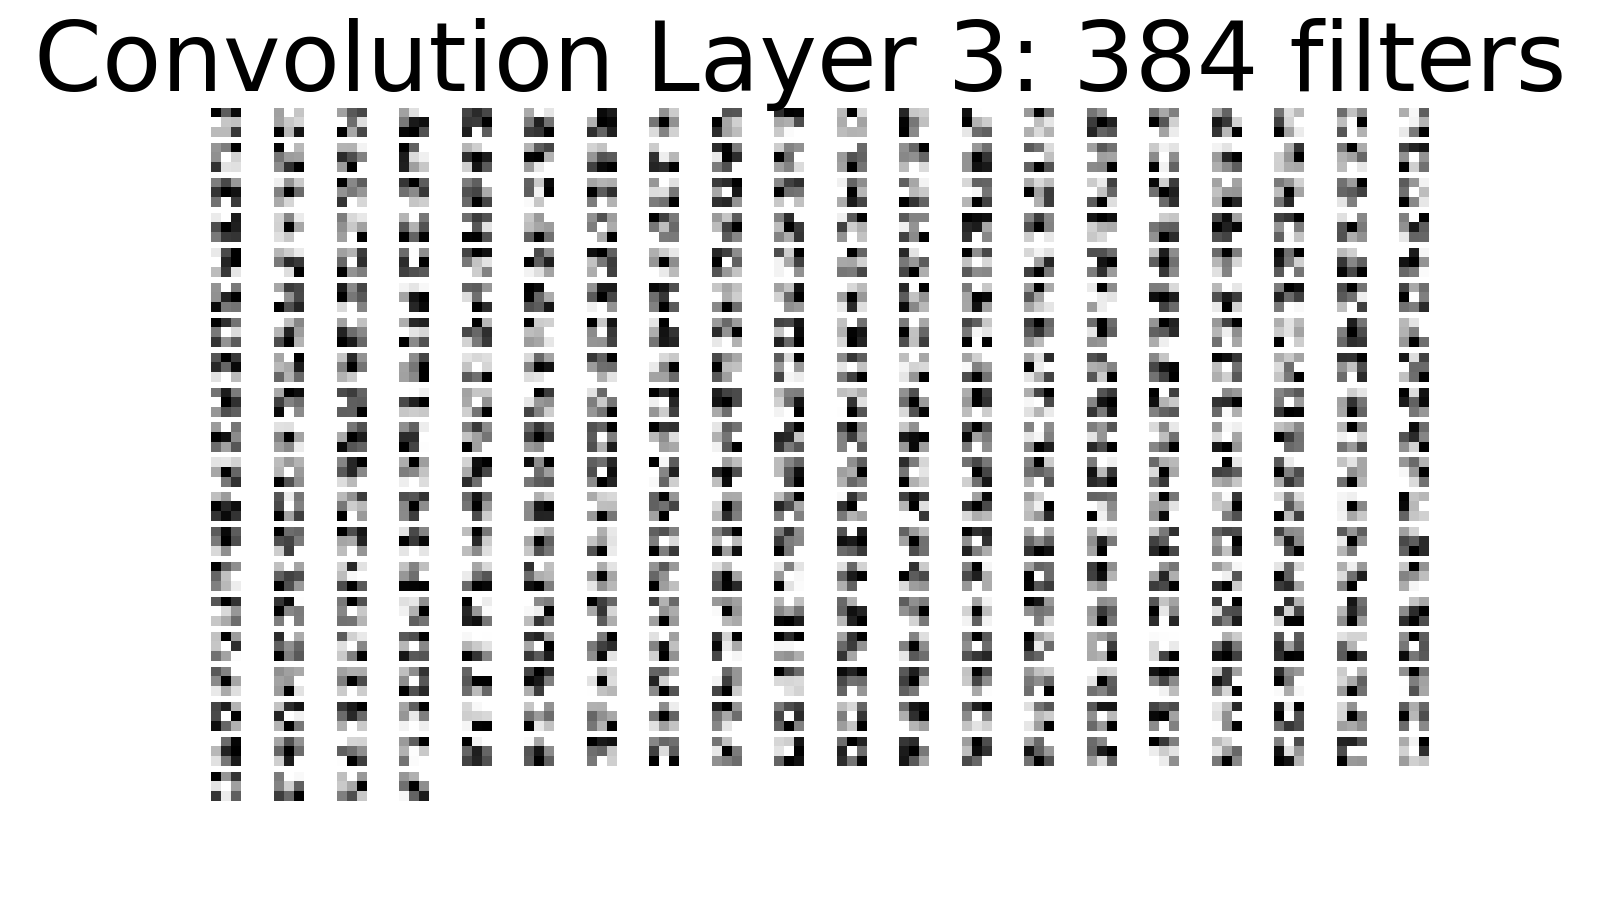
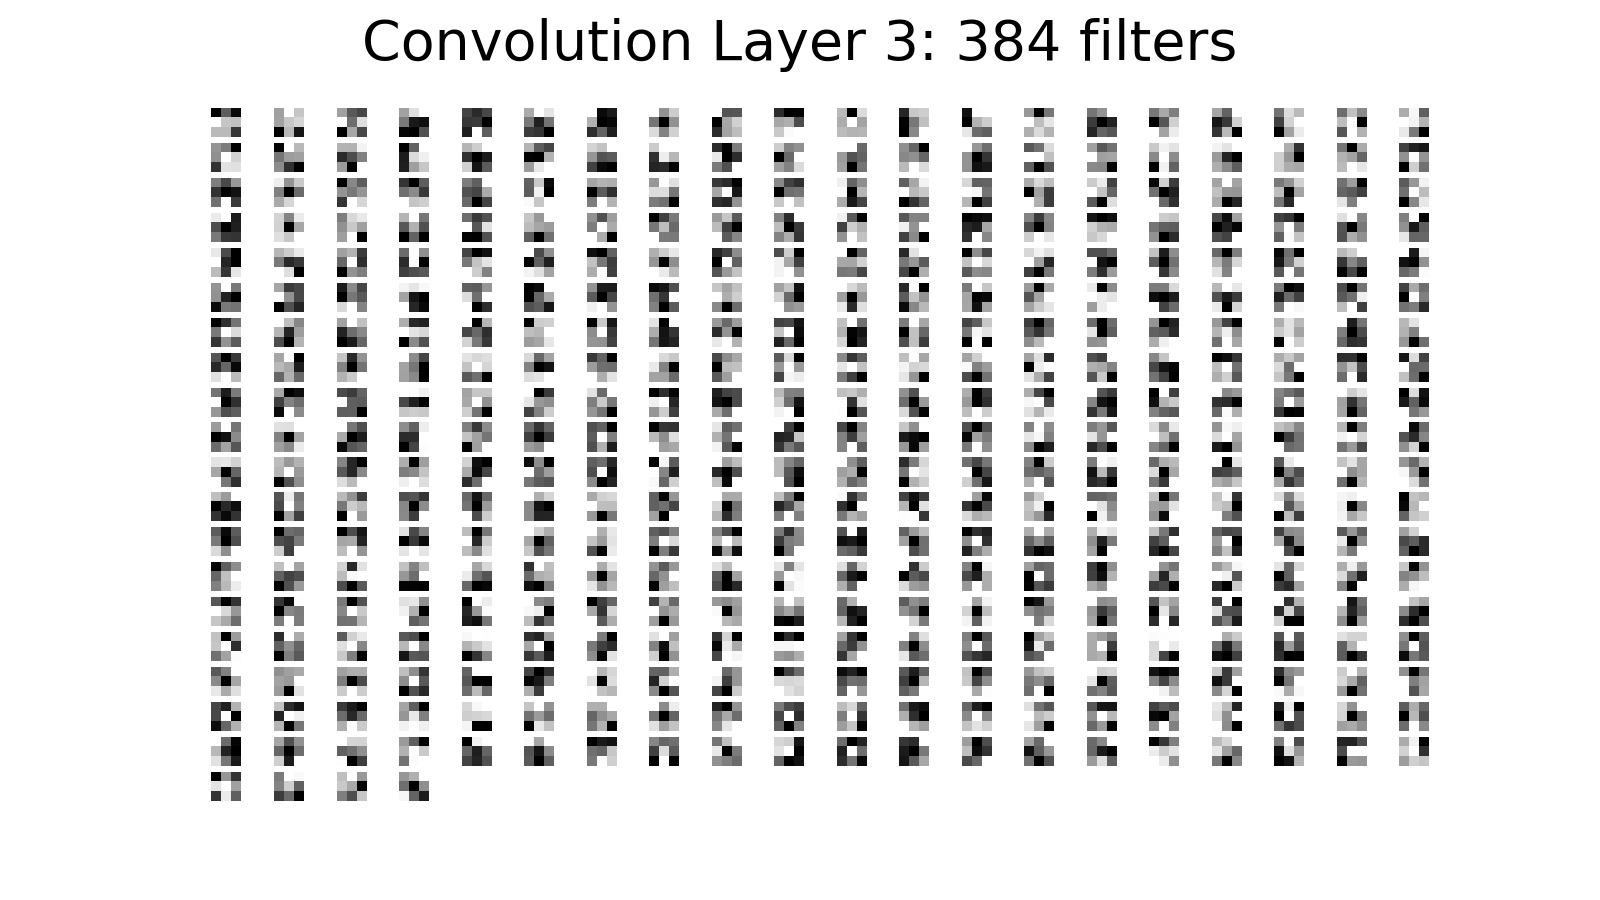
converted visualizer process to functions in utils also some arg parsing for visualizer

Changed region(s): [[0.0, 0.0, 0.7812, 0.1244], [0.8125, 0.0, 1.0, 0.1244]]

diff --git a/utils.py b/utils.py
@@ -4,6 +4,8 @@ import argparse
 import torch
 from torchvision import datasets, transforms
 import torch.nn as nn
+import matplotlib.pyplot as plt
+import math
 
 
 ###############################################################################
@@ -177,6 +179,120 @@ def model_validate(model, input, label, device):
 
 
 ###############################################################################
+def get_model_children(model: nn.Module):
+    model_weights = []
+    layers = []
+    layers_names = []
+    model_children = list(model.children())
+
+    # counter to keep count of the conv layers
+    conv_counter = 0
+    maxpool_counter = 0
+
+    # append all the conv layers and their respective wights to the list
+    for i in range(len(model_children)):
+        if type(model_children[i]) == nn.Conv2d:
+            conv_counter += 1
+            model_weights.append(model_children[i].weight)
+            layers.append(model_children[i])
+            layers_names.append(f"Convolutional Layer {conv_counter}")
+        elif type(model_children[i]) == nn.MaxPool2d:
+            maxpool_counter += 1
+            layers.append(model_children[i])
+            layers_names.append(f"Max Pool Layer {conv_counter}")
+        elif type(model_children[i]) == nn.Sequential:
+            for child in model_children[i].children():
+                if type(child) == nn.Conv2d:
+                    conv_counter += 1
+                    model_weights.append(child.weight)
+                    layers.append(child)
+                    layers_names.append(f"Convolutional Layer {conv_counter}")
+                if type(child) == nn.MaxPool2d:
+                    maxpool_counter += 1
+                    layers.append(child)
+                    layers_names.append(f"Max Pool Layer {conv_counter}")
+    print(f"Total convolution layers: {conv_counter}")
+    print(f"Total max pool layers: {maxpool_counter}")
+
+    return model_weights, layers, layers_names
+
+
+###############################################################################
+def plot_filters(
+    model_weights, filter_img_path: str, save_figures: bool, show_figures: bool
+):
+    # skip everything if doing nothing
+    if not save_figures and not show_figures:
+        print("Skipping convolutional layers plotting and saving")
+        return
+
+    # plot, save and/or show plots
+    for i, model_weight in enumerate(model_weights):
+        plt.figure(figsize=(16, 9))
+        for j, filter in enumerate(model_weight):
+            plt.subplot(
+                math.ceil(math.sqrt(len(model_weight))),
+                math.ceil(math.sqrt(len(model_weight))),
+                j + 1,
+            )
+            plt.imshow(filter[0, :, :].detach(), cmap="gray")
+            plt.axis("off")
+        plt.suptitle(
+            "Convolution Layer {}: {} filters".format(i + 1, len(model_weight)),
+            fontsize=40,
+        )
+        if save_figures:
+            plt.savefig(
+                get_file_path(filter_img_path, "conv_layer{}.png".format(i + 1))
+            )
+    if show_figures:
+        plt.show()
+
+
+###############################################################################
+def plot_feature_maps(
+    input_img,
+    layers,
+    filter_img_path: str,
+    save_figures: bool,
+    show_figures: bool,
+):
+    # skip everything if doing nothing
+    if not save_figures and not show_figures:
+        print("Skipping feature maps plotting and saving")
+        return
+
+    # plot, save and/or show plots
+    results = [input_img]
+    for i in range(0, len(layers)):
+        # pass the result from the last layer to the next layer
+        results.append(layers[i](results[-1]))
+
+    for num_layer in range(len(results)):
+        plt.figure(figsize=(30, 30))
+        layer_viz = results[num_layer][:, :, :]
+        layer_viz = layer_viz.data
+        for i, filter in enumerate(layer_viz):
+            plt.subplot(
+                math.ceil(math.sqrt(len(layer_viz))),
+                math.ceil(math.sqrt(len(layer_viz))),
+                i + 1,
+            )
+            plt.suptitle(
+                "Layer {}: Feature Maps".format(num_layer),
+                fontsize=60,
+            )
+            plt.imshow(filter, cmap="gray")
+            plt.axis("off")
+        if save_figures:
+            print(f"Saving layer {num_layer} feature maps...")
+            plt.savefig(f"{filter_img_path}/feature_map{num_layer}.png")
+    if show_figures:
+        plt.show()
+        plt.close()
+
+
+###############################################################################
 def train_arg_parser(
     parser: argparse.ArgumentParser, config: cfg.Config, pt_path: str
 ) -> argparse.Namespace:
@@ -208,5 +324,47 @@ def train_arg_parser(
         type=str,
         help="absolute path to the saved pytorch model",
         dest="init",
+    )
+    return parser.parse_args()
+
+
+###############################################################################
+def visualizer_arg_parser(
+    parser: argparse.ArgumentParser, config: cfg.Config, pt_path: str, data_path: str
+) -> argparse.Namespace:
+    """
+    args.init
+    args.pt
+    args.lr
+    """
+    parser.add_argument(
+        "-pt",
+        "--pt_path",
+        default=pt_path,
+        type=str,
+        help="absolute path to the saved pytorch model",
+        dest="pt_path",
+    )
+    parser.add_argument(
+        "-d",
+        "--data_path",
+        default=data_path,
+        type=str,
+        help="absolute path to the data directory",
+        dest="data_path",
+    )
+    parser.add_argument(
+        "-sf",
+        "--save_figures",
+        action="store_true",
+        help="If argument is included when running, figures will be saved as png to the model's assets directory",
+        dest="save_figures",
+    )
+    parser.add_argument(
+        "-pf",
+        "--plot_figures",
+        action="store_true",
+        help="If argument is included when running, figures will be shown duering runtime.",
+        dest="plot_figures",
     )
     return parser.parse_args()

diff --git a/visualizer.py b/visualizer.py
@@ -17,17 +17,21 @@ best_val_loss = sys.float_info.max
 # obtain config values
 # TODO: figure out how to do global directory instead of relative. hardcoded for now
 config = cfg.Config
-data_dir = utils.get_folder_path("data")
 pt_path = utils.get_file_path(config.param_dir, config.pt_file)
+data_dir = utils.get_folder_path("data")
+parser = argparse.ArgumentParser(description="Model Visualizer")
+args = utils.visualizer_arg_parser(parser, config, pt_path, data_dir)
 
 # obtain torch model saved
-torch_model = torch.load(pt_path)
+torch_model = torch.load(args.pt_path)
 
 # obtain cfg in torch model
-# TODO: there probably is some bug by doing it this way. Need to figure out
-# a better way to load config that reduces a bug happening from
-# differentiating config parameters
 config = torch_model["config"]
+
+# location to save filters, and feature images
+filter_img_path = utils.get_folder_path(
+    "assets", "{}_{}".format(config.model_name, config.dataset_name)
+)
 
 # Create transforms for preprocessing images to input into models
 transform_train, transform_val = utils.get_transforms(
@@ -35,7 +39,7 @@ transform_train, transform_val = utils.get_transforms(
 )
 
 # Create dataset for both training and validation
-train_dataset, val_dataset = utils.get_datasets(data_dir, config.dataset_name)
+train_dataset, val_dataset = utils.get_datasets(args.data_path, config.dataset_name)
 train_dataset.transform = transform_train
 val_dataset.transform = transform_val
 
@@ -49,90 +53,19 @@ model.load_state_dict(torch_model["model"])
 model.eval()
 
 # TODO: below make them to be functions
-# features
-# we will save the conv layer weights in this list
-model_weights = []
-# we will save the 49 conv layers in this list
-conv_layers = []
-layers_names = []
+# obtain model and layer information
+model_weights, layers, layers_names = utils.get_model_children(model)
 
-model_children = list(model.children())
-# print(model_children)
-
-# counter to keep count of the conv layers
-counter = 0
-# append all the conv layers and their respective wights to the list
-for i in range(len(model_children)):
-    if type(model_children[i]) == nn.Conv2d:
-        counter += 1
-        model_weights.append(model_children[i].weight)
-        conv_layers.append(model_children[i])
-    elif type(model_children[i]) == nn.Sequential:
-        for child in model_children[i].children():
-            if type(child) == nn.Conv2d:
-                counter += 1
-                model_weights.append(child.weight)
-                conv_layers.append(child)
-                # names.append
-            if type(child) == nn.MaxPool2d:
-                conv_layers.append(child)
-print(f"Total convolution layers: {counter}")
-print(model_weights[0][0].shape)
-
-filter_img_path = utils.get_folder_path(
-    "assets", "{}_{}".format(config.model_name, config.dataset_name)
-)
-# for i, model_weight in enumerate(model_weights):
-#     plt.figure(figsize=(16, 9))
-#     for j, filter in enumerate(model_weight):
-#         plt.subplot(
-#             math.ceil(math.sqrt(len(model_weight))),
-#             math.ceil(math.sqrt(len(model_weight))),
-#             j + 1,
-#         )
-#         plt.imshow(filter[0, :, :].detach(), cmap="gray")
-#         plt.axis("off")
-#     plt.suptitle(
-#         "Convolution Layer {}: {} filters".format(i + 1, len(model_weight)),
-#         fontsize=40,
-#     )
-#     plt.savefig(utils.get_file_path(filter_img_path, "conv_layer{}.png".format(i + 1)))
-
-# plt.show()
+# plot filters
+utils.plot_filters(model_weights, filter_img_path, args.save_figures, args.plot_figures)
 
 # feature maps
 inputs, classes = next(iter(val_loader))
 
 # pass the image through all the layers
-results = [inputs[0]]
-for i in range(0, len(conv_layers)):
-    # pass the result from the last layer to the next layer
-    results.append(conv_layers[i](results[-1]))
-# make a copy of the `results`
-outputs = results
-# print(outputs[1].shape)
-
-for num_layer in range(len(outputs)):
-    plt.figure(figsize=(30, 30))
-    layer_viz = outputs[num_layer][:, :, :]
-    layer_viz = layer_viz.data
-    print(layer_viz.size())
-    for i, filter in enumerate(layer_viz):
-        plt.subplot(
-            math.ceil(math.sqrt(len(layer_viz))),
-            math.ceil(math.sqrt(len(layer_viz))),
-            i + 1,
-        )
-        plt.suptitle(
-            "Layer {}: Feature Maps".format(num_layer),
-            fontsize=40,
-        )
-        plt.imshow(filter, cmap="gray")
-        plt.axis("off")
-    print(f"Saving layer {num_layer} feature maps...")
-    plt.savefig(f"{filter_img_path}/feature_map{num_layer}.png")
-    # plt.show()
-    plt.close()
+utils.plot_feature_maps(
+    inputs[0], layers, filter_img_path, args.save_figures, args.plot_figures
+)
 
 # for val_images, val_labels in val_loader:
 #     sample_image = val_images[0]  # Reshape them according to your needs.
